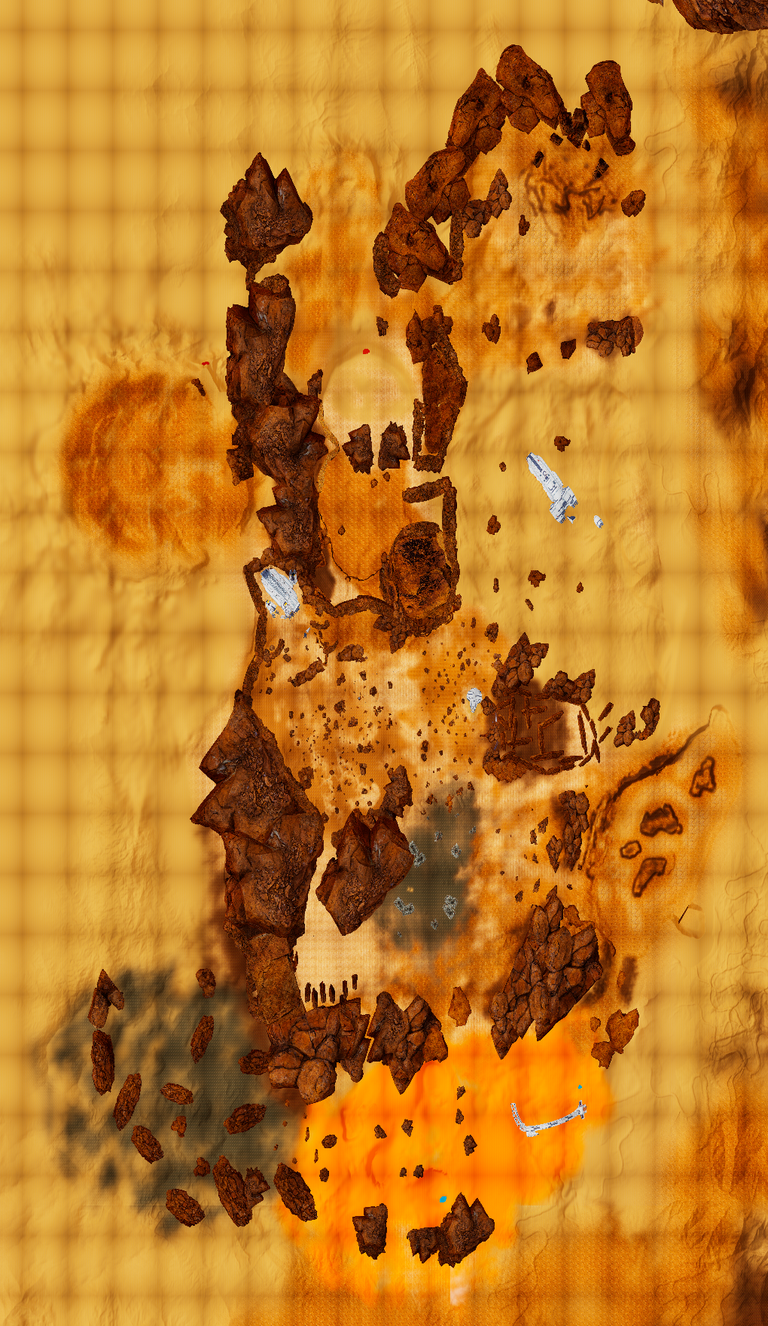
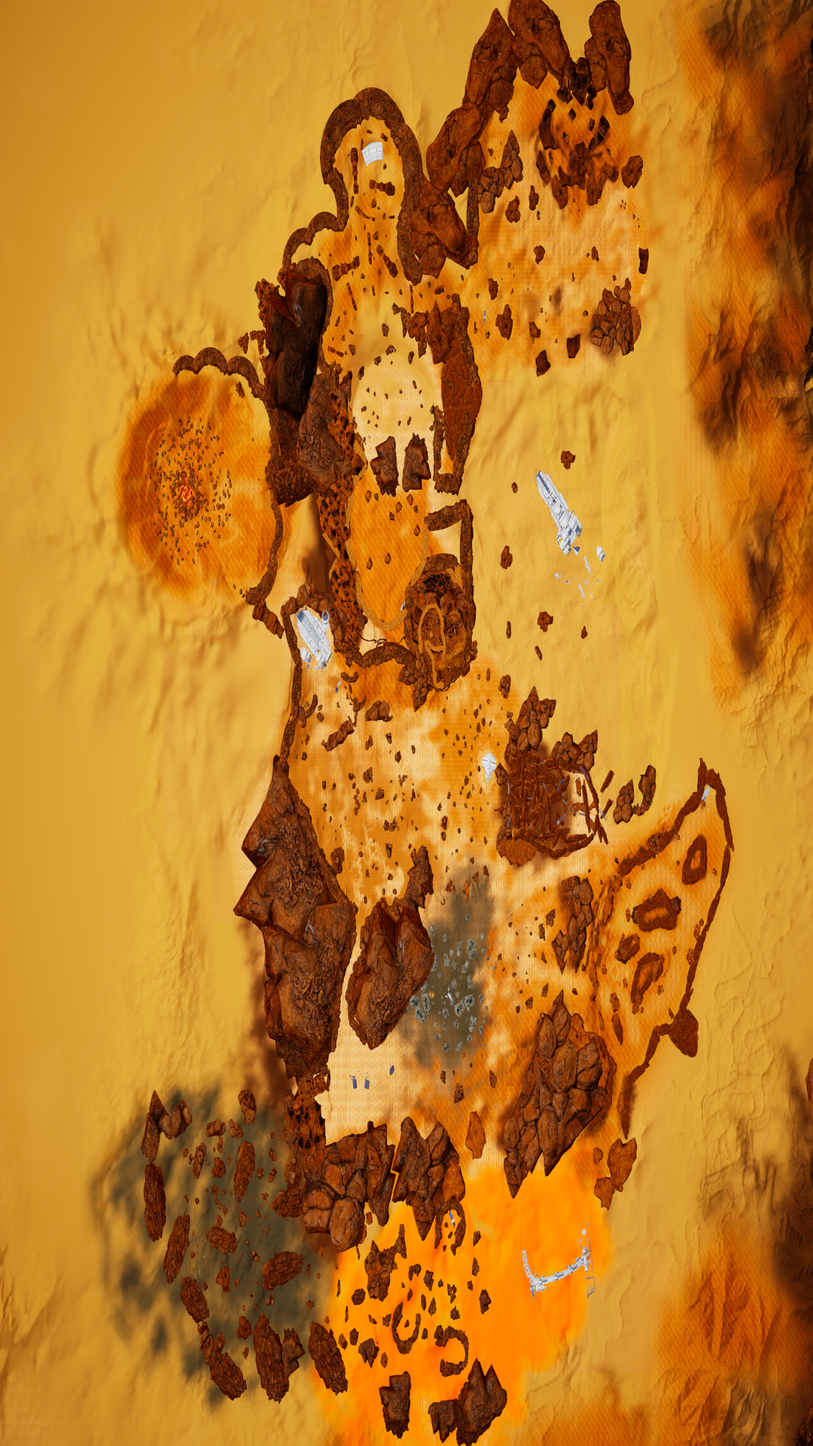
Update with better maps

diff --git a/CheatMinimap/Plugin.cs b/CheatMinimap/Plugin.cs
@@ -12,10 +12,11 @@ using System.Collections;
 using UnityEngine.UI;
 using UnityEngine.InputSystem.Controls;
 using System;
+using UnityEngine.SceneManagement;
 
 namespace CheatMinimap
 {
-    [BepInPlugin("akarnokd.theplanetcraftermods.cheatminimap", "(Cheat) Minimap", "1.0.0.12")]
+    [BepInPlugin("akarnokd.theplanetcraftermods.cheatminimap", "(Cheat) Minimap", "1.0.0.13")]
     public class Plugin : BaseUnityPlugin
     {
         Texture2D barren;
@@ -241,8 +242,8 @@ namespace CheatMinimap
                     // calibrated to the given map
                     float playerCenterX = 700;
                     float playerCenterY = 800;
-                    float mapWidth = 3400;
-                    float mapHeight = 4400;
+                    float mapWidth = 4000;
+                    float mapHeight = 4000;
 
                     // ^
                     // | z+
@@ -443,7 +444,7 @@ namespace CheatMinimap
             Camera.main.orthographic = true;
             Camera.main.orthographicSize = step;
             Camera.main.aspect = 1;
-            Camera.main.farClipPlane = 1000;
+            Camera.main.farClipPlane = 700;
             Camera.main.nearClipPlane = -400;
             Camera.main.layerCullDistances = new float[32];
 
@@ -470,46 +471,86 @@ namespace CheatMinimap
             }
         }
 
+        static bool allowUnload = true;
+        static bool loaded;
+
         IEnumerator PhotographMap(string dir, PlayerMainController pm)
         {
-            const int step = 100;
-            int[] ys = new[] { 75 };
-            for (int z = 3000; z >= -1400; z -= step)
+            var q = Quaternion.Euler(new Vector3(0, 90, 0)) * Quaternion.Euler(new Vector3(90, 0, 0));
+            var move = pm.GetPlayerMovable();
+            move.flyMode = true;
+            pm.SetPlayerPlacement(new Vector3(700, 300, 800), q);
+            SetVisuals(4000 / 2, pm);
+            foreach (ParticleSystem ps in UnityEngine.Object.FindObjectsOfType<ParticleSystem>())
             {
-                for (int x = 2400; x >= -1000; x -= step)
+                var em = ps.emission;
+                em.enabled = false;
+            }
+
+            allowUnload = false;
+            Time.timeScale = 1f;
+
+            Logger.LogInfo("Begin Sector loading");
+
+            // disable all decoys
+            var sectors = UnityEngine.Object.FindObjectsOfType<Sector>();
+            Logger.LogInfo("Sector count: " + sectors.Length);
+            foreach (Sector sector in sectors)
+            {
+                string name = sector.gameObject.name;
+                Logger.LogInfo("Sector: " + name);
+                if (/*name.StartsWith("Sector-Cave-") || */name.Contains("_Interior"))
                 {
-                    foreach (int y in ys)
+                    Logger.LogInfo("Sector: " + name + " Ignored");
+                    continue;
+                }
+                bool found = false;
+                /*
+                for (int i = 0; i < SceneManager.sceneCount; i++)
+                {
+                    var sc = SceneManager.GetSceneAt(i);
+                    if (sc.name == name)
                     {
-                        var move = pm.GetPlayerMovable();
-                        move.flyMode = true;
-                        var q = Quaternion.Euler(new Vector3(0, 90, 0)) * Quaternion.Euler(new Vector3(90, 0, 0));
-
-                        //Logger.LogInfo("Taking photo of " + z + ":" + x);
-                        Time.timeScale = 1f;
-
-                        pm.SetPlayerPlacement(new Vector3(x, y, z), q);
-                        SetVisuals(step, pm);
-
-                        yield return 0;
-
-                        SetVisuals(step, pm);
-
-                        try
-                        {
-                            ScreenCapture.CaptureScreenshot(dir + "\\map_" + z + "_" + x + "_" + y + ".png");
-                        }
-                        catch (Exception ex)
-                        {
-                            Logger.LogError(ex);
-                        }
+                        found = true;
+                        break;
                     }
-                    //Logger.LogInfo("Taking photo of " + z + ":" + x + " - Done");
-                    yield return 1;
+                }
+                */
+                if (!found)
+                {
+                    Logger.LogInfo("Sector: " + name + " loading");
+                    loaded = false;
+                    SceneManager.LoadSceneAsync(name, LoadSceneMode.Additive).completed += OnSceneLoaded;
+
+                    while (!loaded)
+                    {
+                        yield return 0;
+                    }
+
+                    foreach (GameObject gameObject in sector.decoyGameObjects)
+                    {
+                        gameObject.SetActive(true);
+                    }
                 }
             }
+
+
+            Logger.LogInfo("Screenshot all");
+
+            int[] ys = new[] { 50, 75, 100, 125, 150, 200, 300, 325, 350, 375, 400, 500 };
+
+            foreach (int y in ys) {
+                pm.SetPlayerPlacement(new Vector3(700, y, 800), q);
+                SetVisuals(4000 / 2, pm);
+                yield return 0;
+                ScreenCapture.CaptureScreenshot(dir + "\\map_" + y + ".png");
+                yield return 0;
+            }
+            
+            allowUnload = true;
+            Time.timeScale = 1f;
             yield break;
         }
-
         /*
         [HarmonyPrefix]
         [HarmonyPatch(typeof(PlayerMovable), nameof(PlayerMovable.UpdatePlayerMovement))]
@@ -523,6 +564,18 @@ namespace CheatMinimap
         {
             return photoroutine == null;
         }
+
+        [HarmonyPrefix]
+        [HarmonyPatch(typeof(Sector), nameof(Sector.UnloadSector))]
+        static bool Sector_UnloadSector()
+        {
+            return allowUnload;
+        }
         */
+
+        static void OnSceneLoaded(AsyncOperation obj)
+        {
+            loaded = true;
+        }
     }
 }
